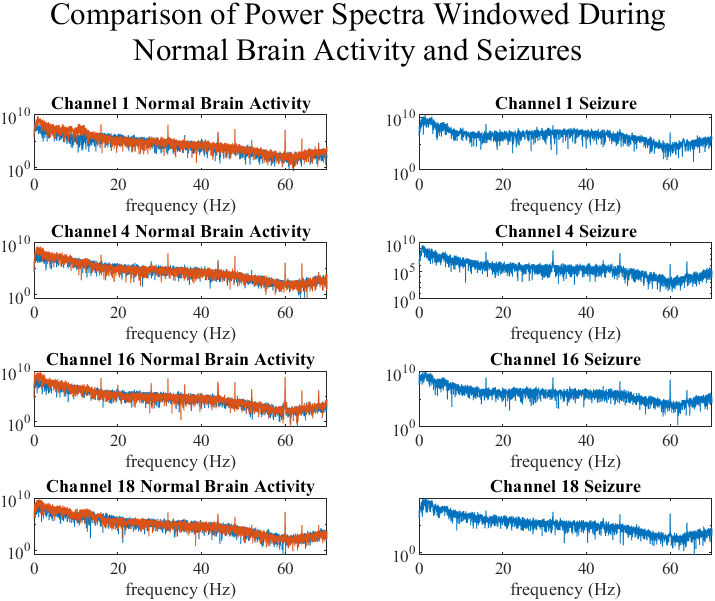
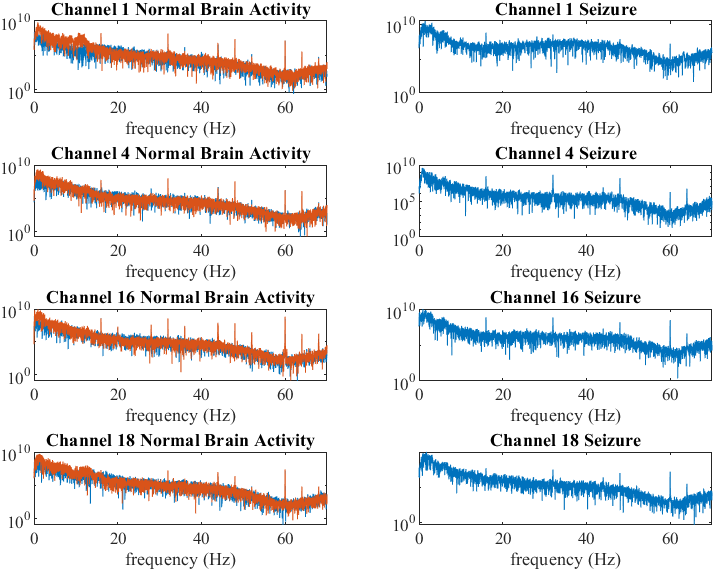
Adding images for EEG spectrogram project

Changed region(s): [[0.0, 0.0, 1.0, 1.0], [0.5231, 0.1489, 1.0, 1.0], [0.3077, 0.9825, 0.3385, 1.0]]

diff --git a/projects/EEG_spectrograms.html b/projects/EEG_spectrograms.html
@@ -165,7 +165,7 @@
                         <strong>Clinical Motivation:</strong> Epileptic seizures are characterized by sudden bursts of abnormal synchronous neural activity, producing distinct shifts in spectral power across clinical EEG frequency bands (Delta, Theta, Alpha, Beta, and Gamma). Time-frequency spectrograms allow clinicians to track these spectral transitions to confirm epilepsy, localize the seizure onset zone, and classify seizure events.  
                     </p>
                     <p>
-                        <strong>Dataset &amp; Methodology:</strong> Analyzed 23-channel pediatric scalp EEG recordings from the PhysioNet CHB-MIT Scalp EEG Database sampled at 256 Hz. Evaluation focused on a 1 hour recording featuring an annotated 40-second ictal event. Signals were conditioned through a cascaded IIR Butterworth filter pipeline to remove electrical and high-frequency noise, and short-time Fourier transform spectrograms were generated to analyze frequency band power shifts during the seizure event.
+                        <strong>Dataset &amp; Methodology:</strong> Analyzed 23-channel pediatric scalp EEG recordings from the PhysioNet CHB-MIT Scalp EEG Database sampled at 256 Hz. Evaluation focused on a 1 hour recording featuring an annotated 40-second ictal event. Signals were conditioned through a cascaded IIR Butterworth filter pipeline to remove electrical and high-frequency noise, and spectrograms were generated to analyze frequency band power shifts during the seizure event.
                     </p>
 
                     <div class="figure-box">
@@ -182,8 +182,8 @@
                     </p>
                     <ul>
                         <li><strong>Ictal Spectral Signature:</strong> During seizure onset, power spectral density (PSD) increased markedly in the Delta (&lt;4 Hz), Theta (4–8 Hz), and Gamma (30–50 Hz) bands.</li>
-                        <li><strong>Instrument Artifact Identification:</strong> Spectral analysis revealed a sharp, narrowband 16 Hz interference spike alongside harmonics at 32 Hz and 48 Hz—characteristic of concurrent Electrical Impedance Tomography monitoring.</li>
-                        <li><strong>Bandwidth Selection:</strong> A 50 Hz upper cutoff was selected to preserve epileptic Gamma activity (30–50 Hz) while rejecting high-frequency noise.</li>
+                        <li><strong>Instrument Artifact Identification:</strong> Spectral analysis revealed a 16 Hz interference spike alongside harmonics at 32 Hz and 48 Hz—characteristic of concurrent Electrical Impedance Tomography monitoring.</li>
+                        <li><strong>Bandwidth Selection:</strong> A 50 Hz upper cutoff was selected to reject high-frequency noise while preserving epileptic Gamma activity (30–50 Hz).</li>
                     </ul>
 
                     <div class="figure-box">
@@ -223,7 +223,7 @@
                     </div>
 
                     <div class="figure-box">
-                        <img src="../assets/images/eeg_spectrogram/filterPS.png" alt="Channel 1 Unfiltered vs Filtered Power Spectrum" onerror="this.src='https://via.placeholder.com/750x380?text=filterPS.png';">
+                        <img src="../assets/images/eeg_spectrogram/filter_ps.png" alt="Channel 1 Unfiltered vs Filtered Power Spectrum" onerror="this.src='https://via.placeholder.com/750x380?text=filter_ps.png';">
                         <div class="figure-caption">Figure 4: Channel 1 PSD before and after cascaded filtering, confirming suppression of the 16/32/48 Hz artifacts and &gt;50 Hz noise floor.</div>
                     </div>
                 </section>
